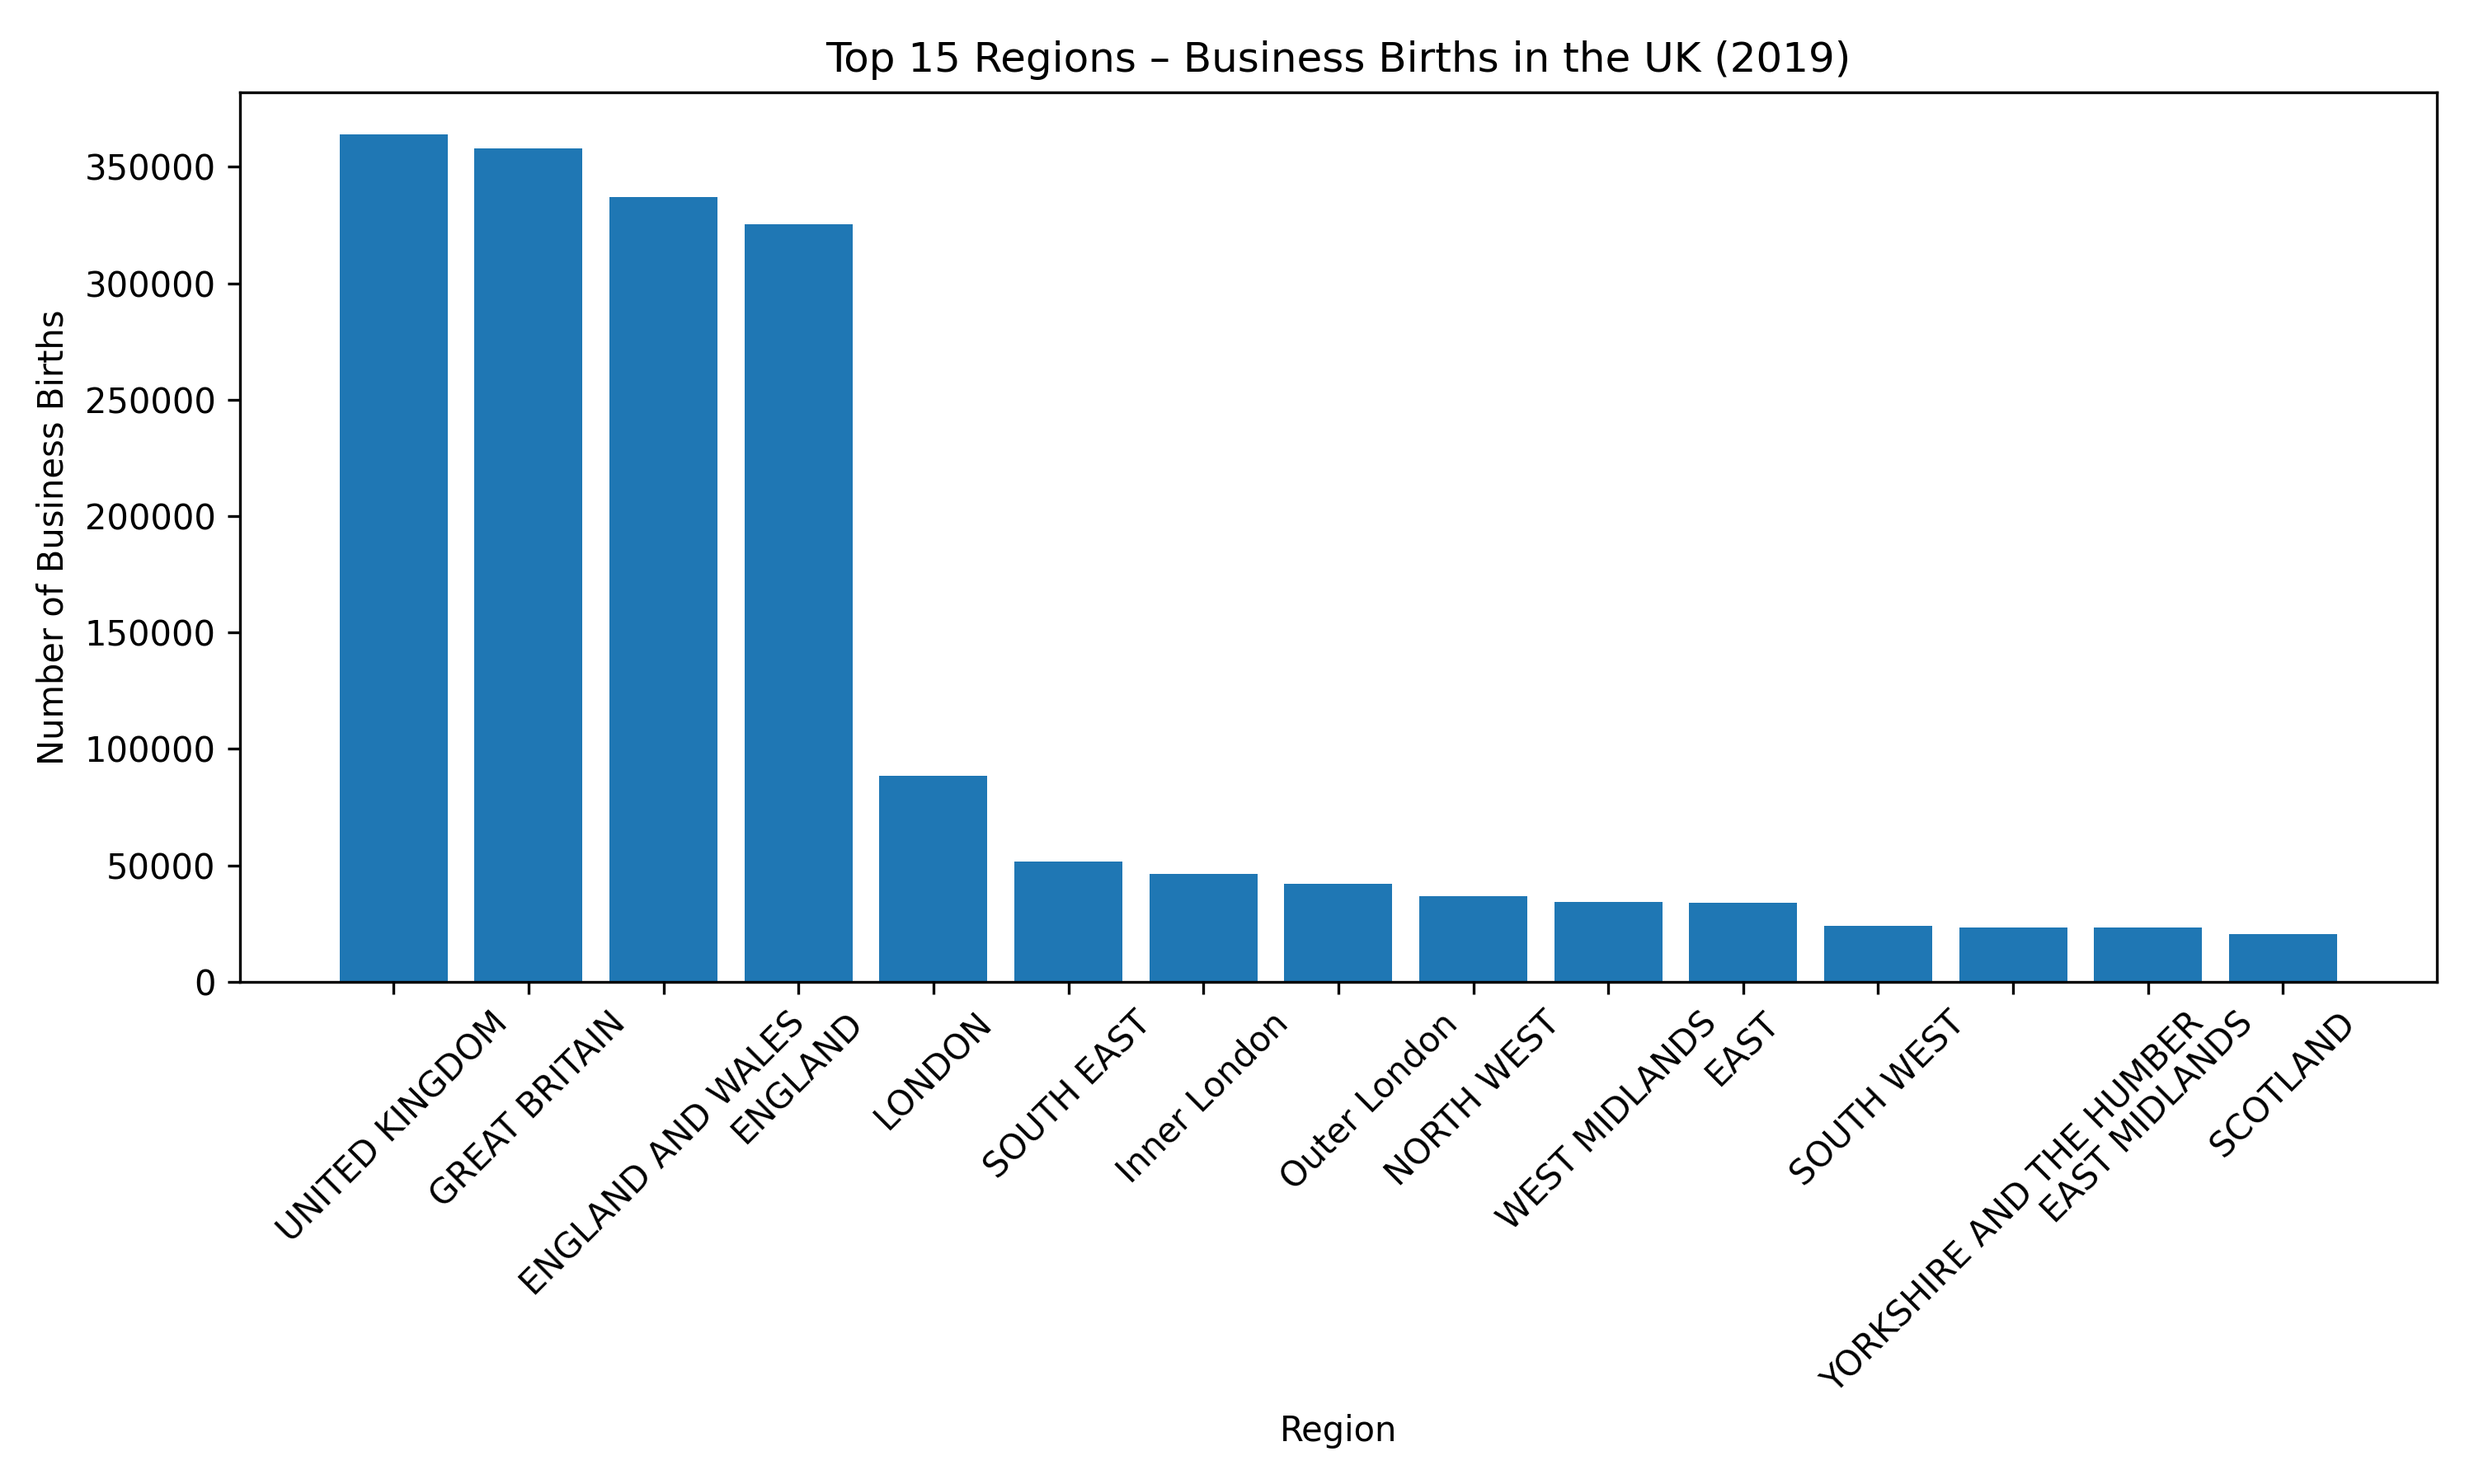
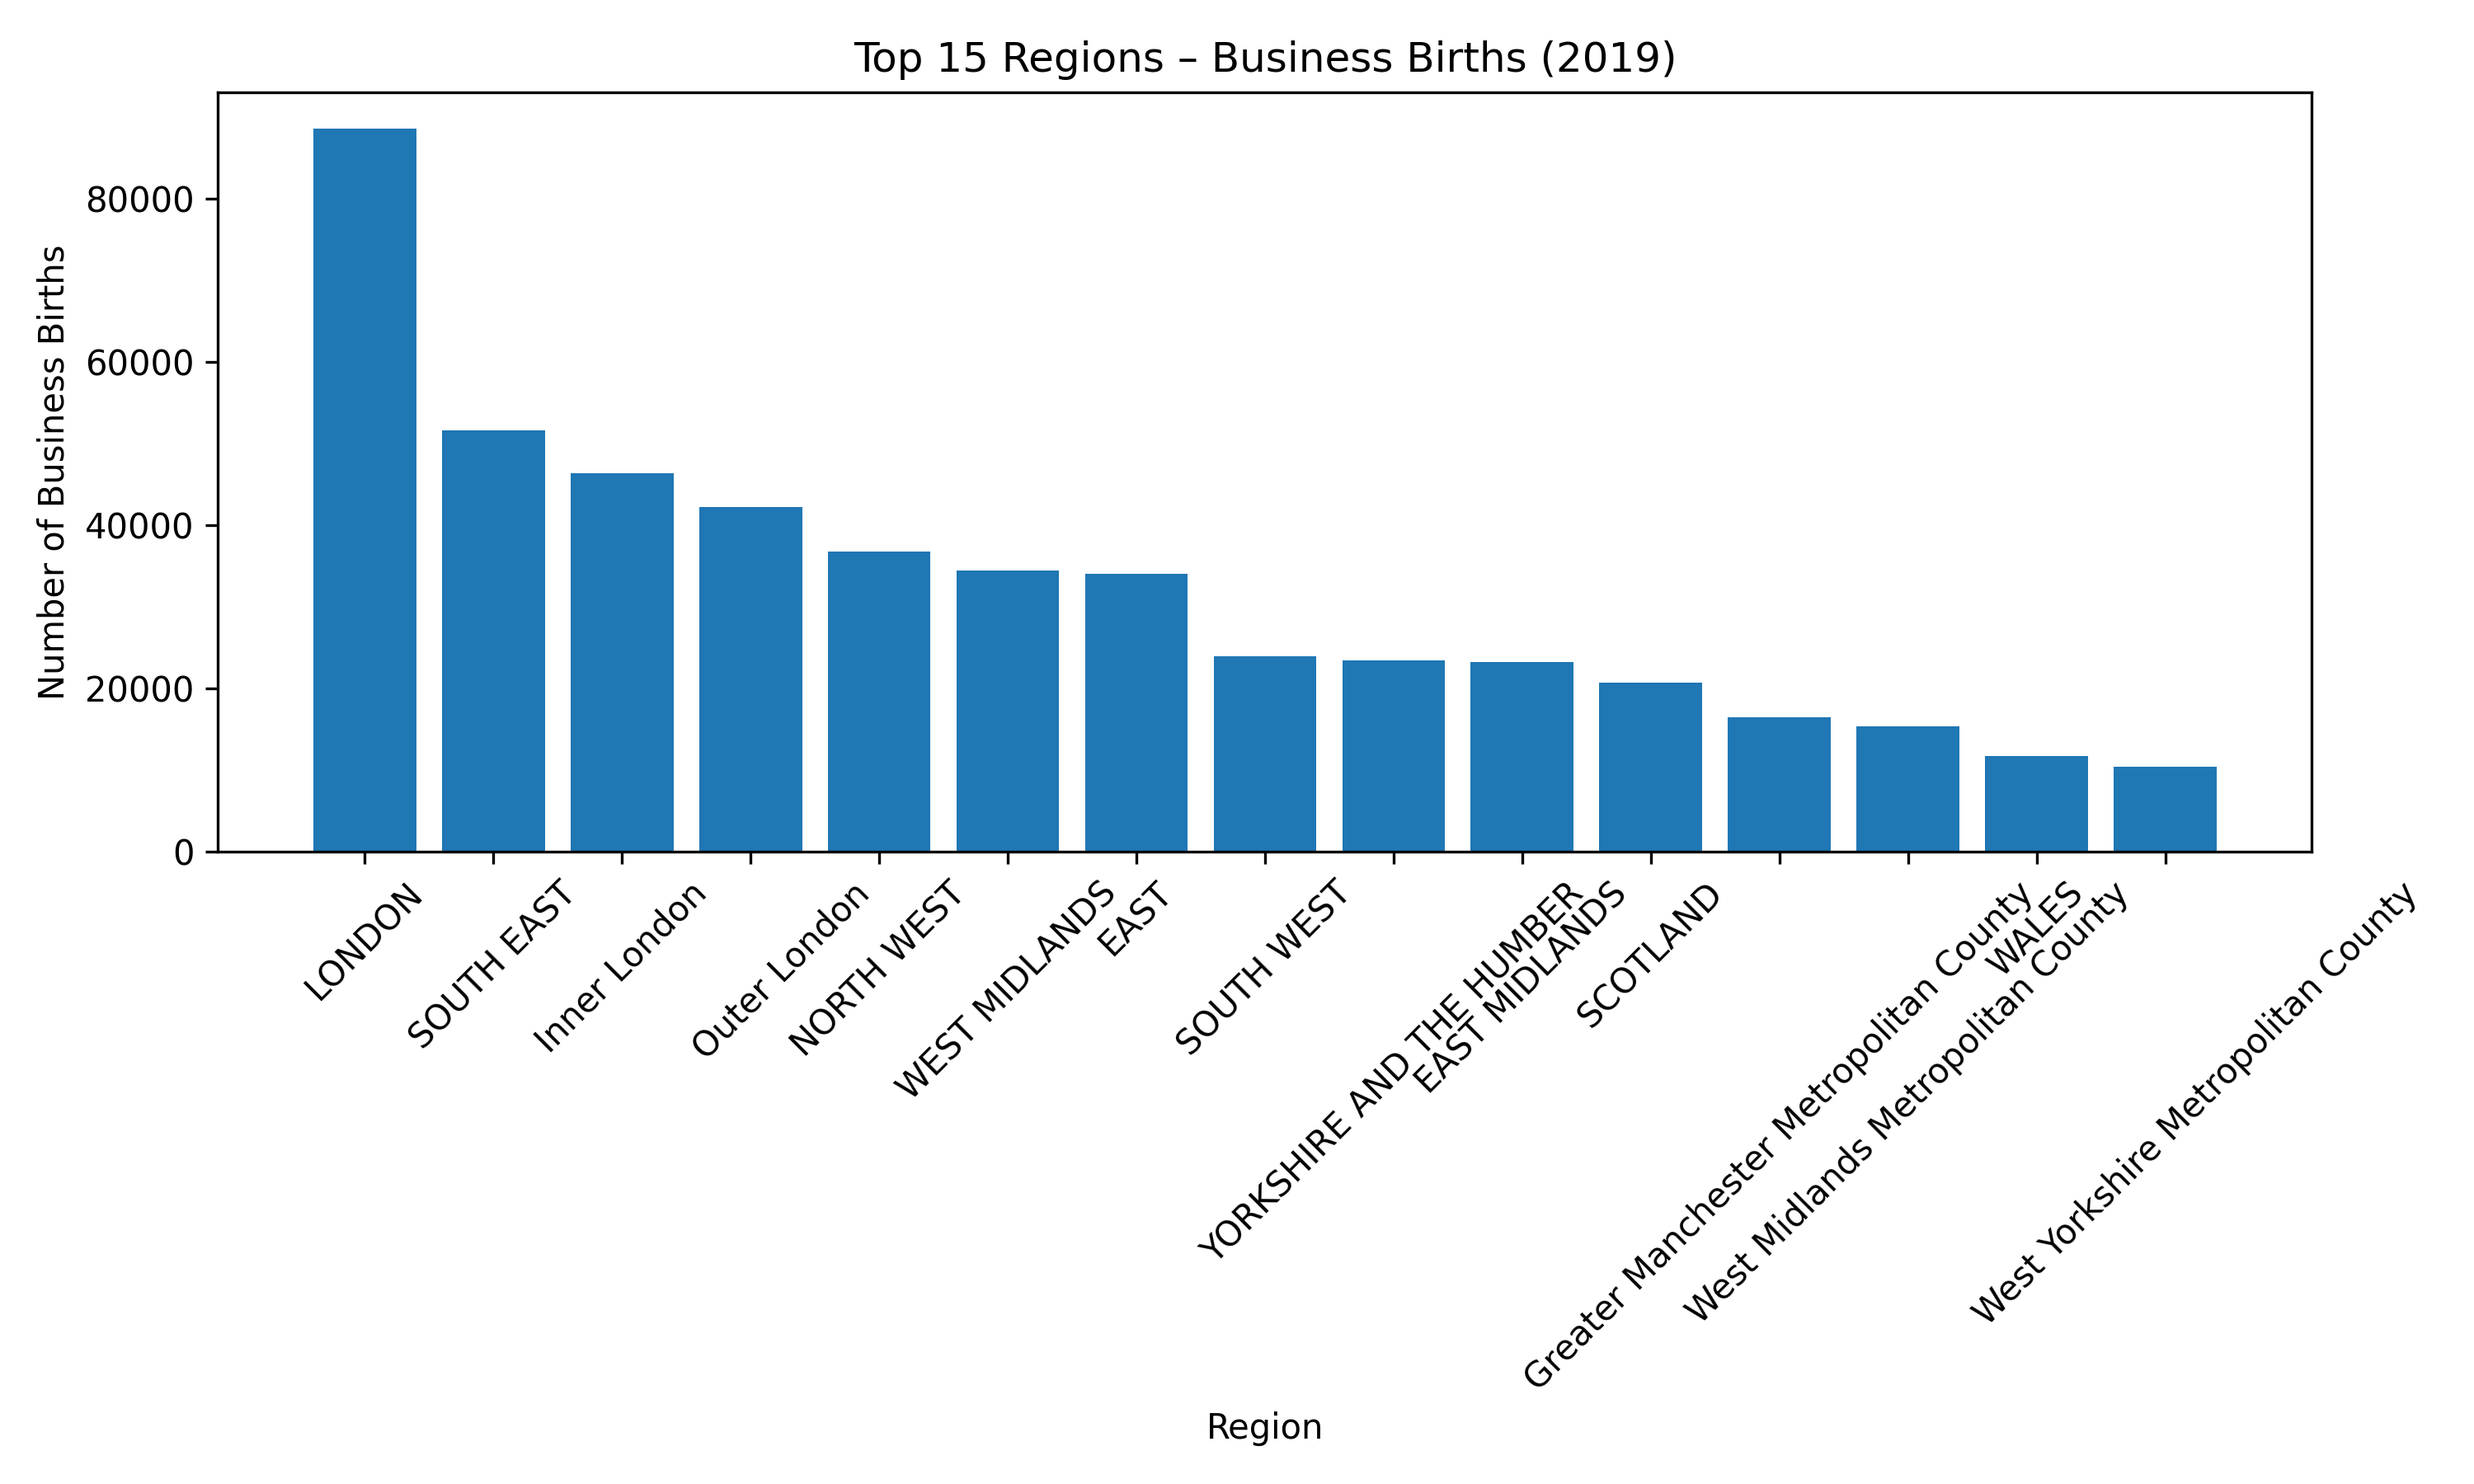
deleting bugged plots

diff --git a/plots/bar_chart_2019.py b/plots/bar_chart_2019.py
@@ -2,25 +2,33 @@ import matplotlib.pyplot as plt
 import pandas as pd
 from pathlib import Path
 
-PROJECT_ROOT = Path(__file__).resolve().parents[2]
-DATA_PATH = PROJECT_ROOT / "data" / "processed" / "uk_business_births_2019_clean.csv"
-PLOTS_DIR = PROJECT_ROOT / "plots"
+PROJECT_ROOT = Path(__file__).resolve().parents[1]
 
-df = pd.read_csv(DATA_PATH)
+df = pd.read_csv(
+    PROJECT_ROOT / "data" / "processed" / "uk_business_births_2019_clean.csv"
+)
 
-# choose top 15 regions by births (or fewer if not enough rows)
+df = df.sort_values("Number of Business Births (2019)", ascending=False)
+
+# remove first 4 non-regional entries
+df = df.iloc[4:]
+
 top_n = min(15, len(df))
-df_top = df.sort_values("Number of Business Births (2019)", ascending=False).head(top_n)
+df = df.head(top_n)
 
 plt.figure(figsize=(10, 6))
-plt.bar(df_top["Geography Name"], df_top["Number of Business Births (2019)"])
+plt.bar(df["Geography Name"], df["Number of Business Births (2019)"])
 plt.xlabel("Region")
 plt.ylabel("Number of Business Births")
-plt.title(f"Top {top_n} Regions – Business Births in the UK (2019)")
+plt.title(f"Top {top_n} Regions – Business Births (2019)")
 plt.xticks(rotation=45)
 plt.tight_layout()
 
-PLOTS_DIR.mkdir(exist_ok=True)
-plt.savefig(PLOTS_DIR / "business_births_top_regions_2019.png", dpi=300)
+plots = PROJECT_ROOT / "plots"
+plots.mkdir(exist_ok=True)
+
+plt.savefig(plots / "business_births_top_regions_2019.png", dpi=300)
 plt.show()
+
+
 
